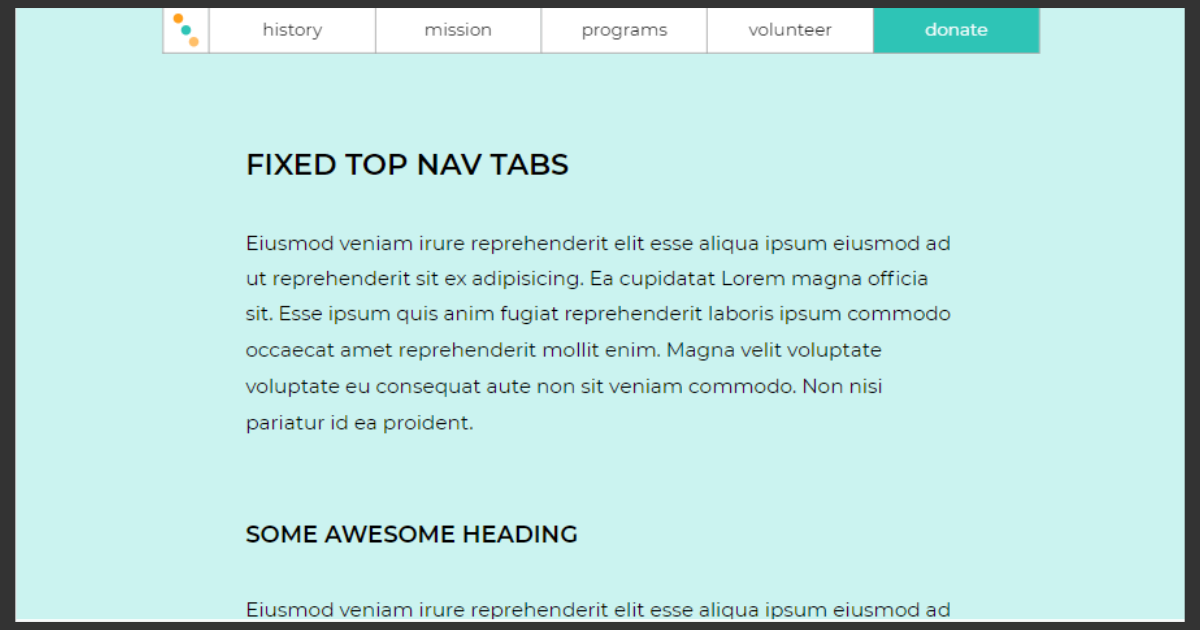
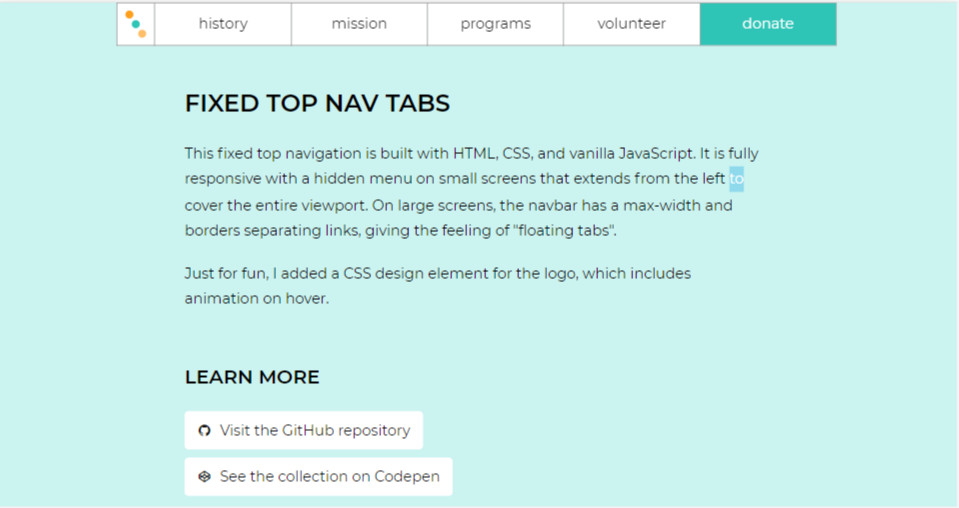
Update social image and and main content

Changed region(s): [[0.0, 0.0, 1.0, 1.0], [0.1814, 0.1772, 0.7862, 0.7677]]

diff --git a/fixed-top-nav-tabs/index.html b/fixed-top-nav-tabs/index.html
@@ -5,7 +5,7 @@
     <meta charset="UTF-8">
     <meta http-equiv="X-UA-Compatible" content="IE=edge">
     <meta name="viewport" content="width=device-width, initial-scale=1.0">
-    <!-- This content values below are specific to this project, so don't forget to customize if copy/pasting! -->
+    <!-- The tags, properties, and values below are specific to this project, so don't forget to customize if copy/pasting! -->
     <meta property="og:title" content="Fixed Top Nav Tabs">
     <meta property="og:type" content="article">
     <meta property="og:image" content="fixed-nav-tabs_social.png">
@@ -46,15 +46,20 @@
     <!-- END PAGE HEADER -->
     <main>
         <h1>Fixed Top Nav Tabs</h1>
-        <p>Eiusmod veniam irure reprehenderit elit esse aliqua ipsum eiusmod ad ut reprehenderit sit ex adipisicing. Ea
-            cupidatat Lorem magna officia sit. Esse ipsum quis anim fugiat reprehenderit laboris ipsum commodo occaecat
-            amet reprehenderit mollit enim. Magna velit voluptate voluptate eu consequat aute non sit veniam commodo.
-            Non nisi pariatur id ea proident.</p>
-        <h2>Some Awesome Heading</h2>
-        <p>Eiusmod veniam irure reprehenderit elit esse aliqua ipsum eiusmod ad ut reprehenderit sit ex adipisicing.
-            Eacupidatat Lorem magna officia sit. Esse ipsum quis anim fugiat reprehenderit laboris ipsum commodo
-            occaecat amet reprehenderit mollit enim. Magna velit voluptate voluptate eu consequat aute non sit veniam
-            commodo. Non nisi pariatur id ea proident.</p>
+        <p>This fixed top navigation is built with HTML, CSS, and vanilla JavaScript. It is fully responsive with a hidden menu
+            on small screens that extends from the left to cover the entire viewport. On large screens, the navbar has a
+            max-width and borders separating links, giving the feeling of "floating tabs".</p>
+        <p>Just for fun, I added a CSS design element for the logo, which includes animation on hover.</p>
+        <h2>Learn More</h2>
+        <a href="https://github.com/christadejesus/navigation/tree/main/fixed-top-nav-tabs" class="flex-link" target="_blank"
+            rel="noreferrer"><i class="ri-github-fill"></i>Visit the GitHub repository</a>
+        <a href="https://codepen.io/collection/yrPyag" target="_blank" rel="noreferrer" class="flex-link"><i
+                class="ri-codepen-fill"></i>See the collection on Codepen</a>
+        <h2>Get in Touch</h2>
+        <p>If you found this navigation demo helpful or if you have any questions, I'd love to hear from you.
+            Visit my website at <a href="https://christadejesus.com" target="_blank" rel="noreferrer">christadejesus.com</a> to
+            connect.</p>
+
     </main>
     <footer class="page-footer">
         <p class="copyright">&copy;2022 Some Awesome Organization</p>

diff --git a/fixed-top-nav-tabs/style.css b/fixed-top-nav-tabs/style.css
@@ -25,24 +25,22 @@
 
   /* GLOBALS */
   font-size: 10px;
-  line-height: 1.5;
+  line-height: 1.8;
 }
 
 /* MAIN STYLES */
-body,
-html {
+body {
   font-family: "Montserrat", sans-serif;
   font-size: 1.8rem;
   background: var(--primary-lt);
 }
 p {
-  line-height: 1.8;
-  margin: 40px 0;
+  margin: 20px 0;
 }
 h1,
 h2 {
   font-weight: 600;
-  margin: 80px 0 40px 0;
+  margin: 60px 0 20px 0;
   text-transform: uppercase;
 }
 h1 {
@@ -53,11 +51,6 @@ h2 {
 }
 ul {
   list-style: none;
-}
-main {
-  padding: 60px;
-  max-width: 850px;
-  margin: 0 auto;
 }
 
 /* BUTTONS & LINKS */
@@ -162,6 +155,31 @@ button {
 }
 .btn {
   display: none; /* on desktop */
+}
+/* MAIN CONTENT */
+main {
+  padding: 60px;
+  max-width: 850px;
+  margin: 0 auto;
+}
+p a {
+  font-weight: 500;
+}
+p a:hover {
+  opacity: 80%;
+}
+.flex-link {
+  display: flex;
+  gap: 1rem;
+  background: var(--neutral-lt);
+  border-radius: 5px;
+  margin-bottom: 1rem;
+  padding: 8px 16px;
+  max-width: fit-content;
+}
+.flex-link:hover {
+  background: var(--primary);
+  color: var(--neutral-lt);
 }
 
 /* FOOTER */
